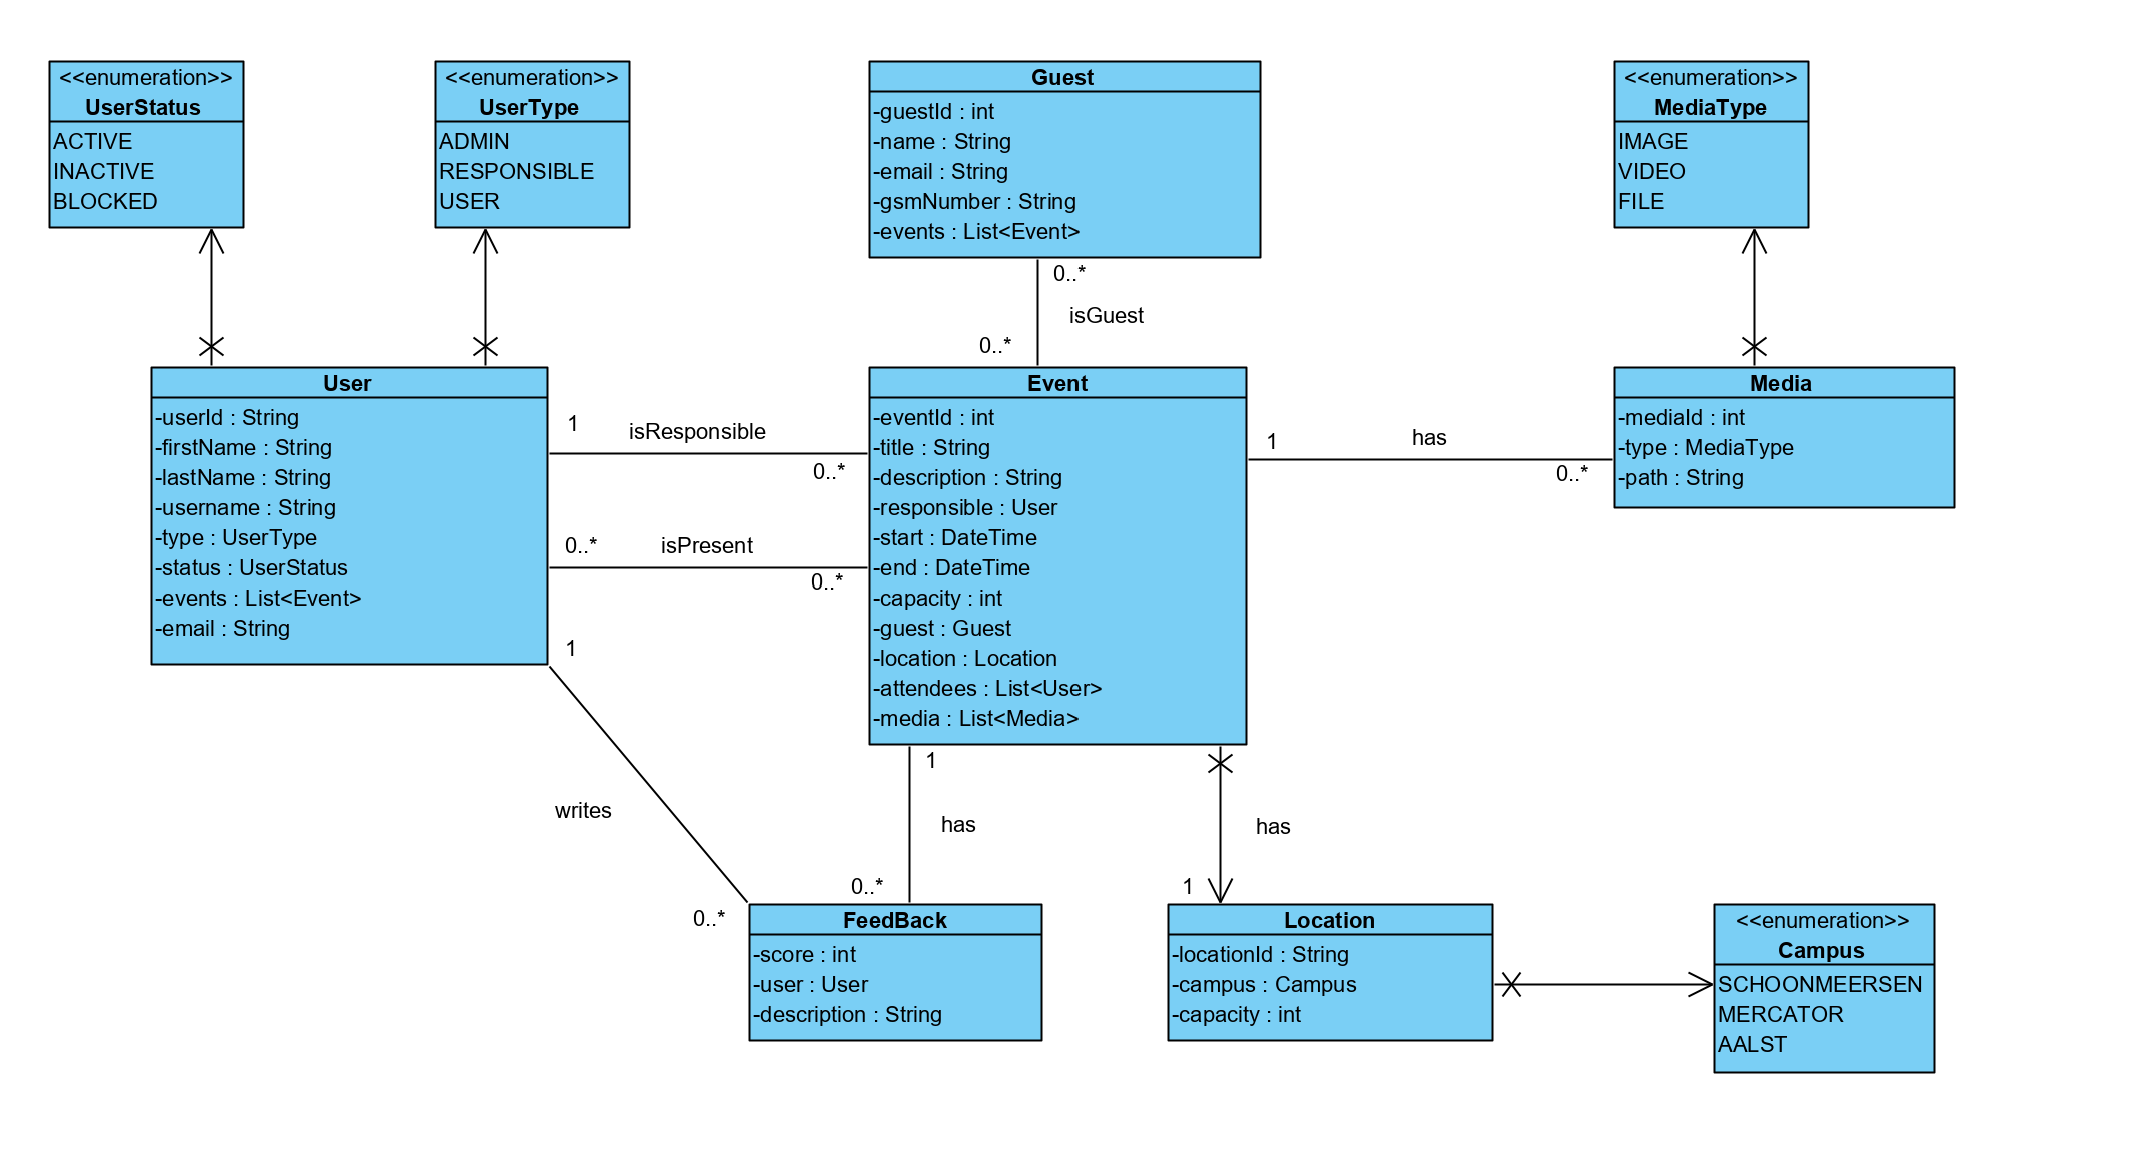
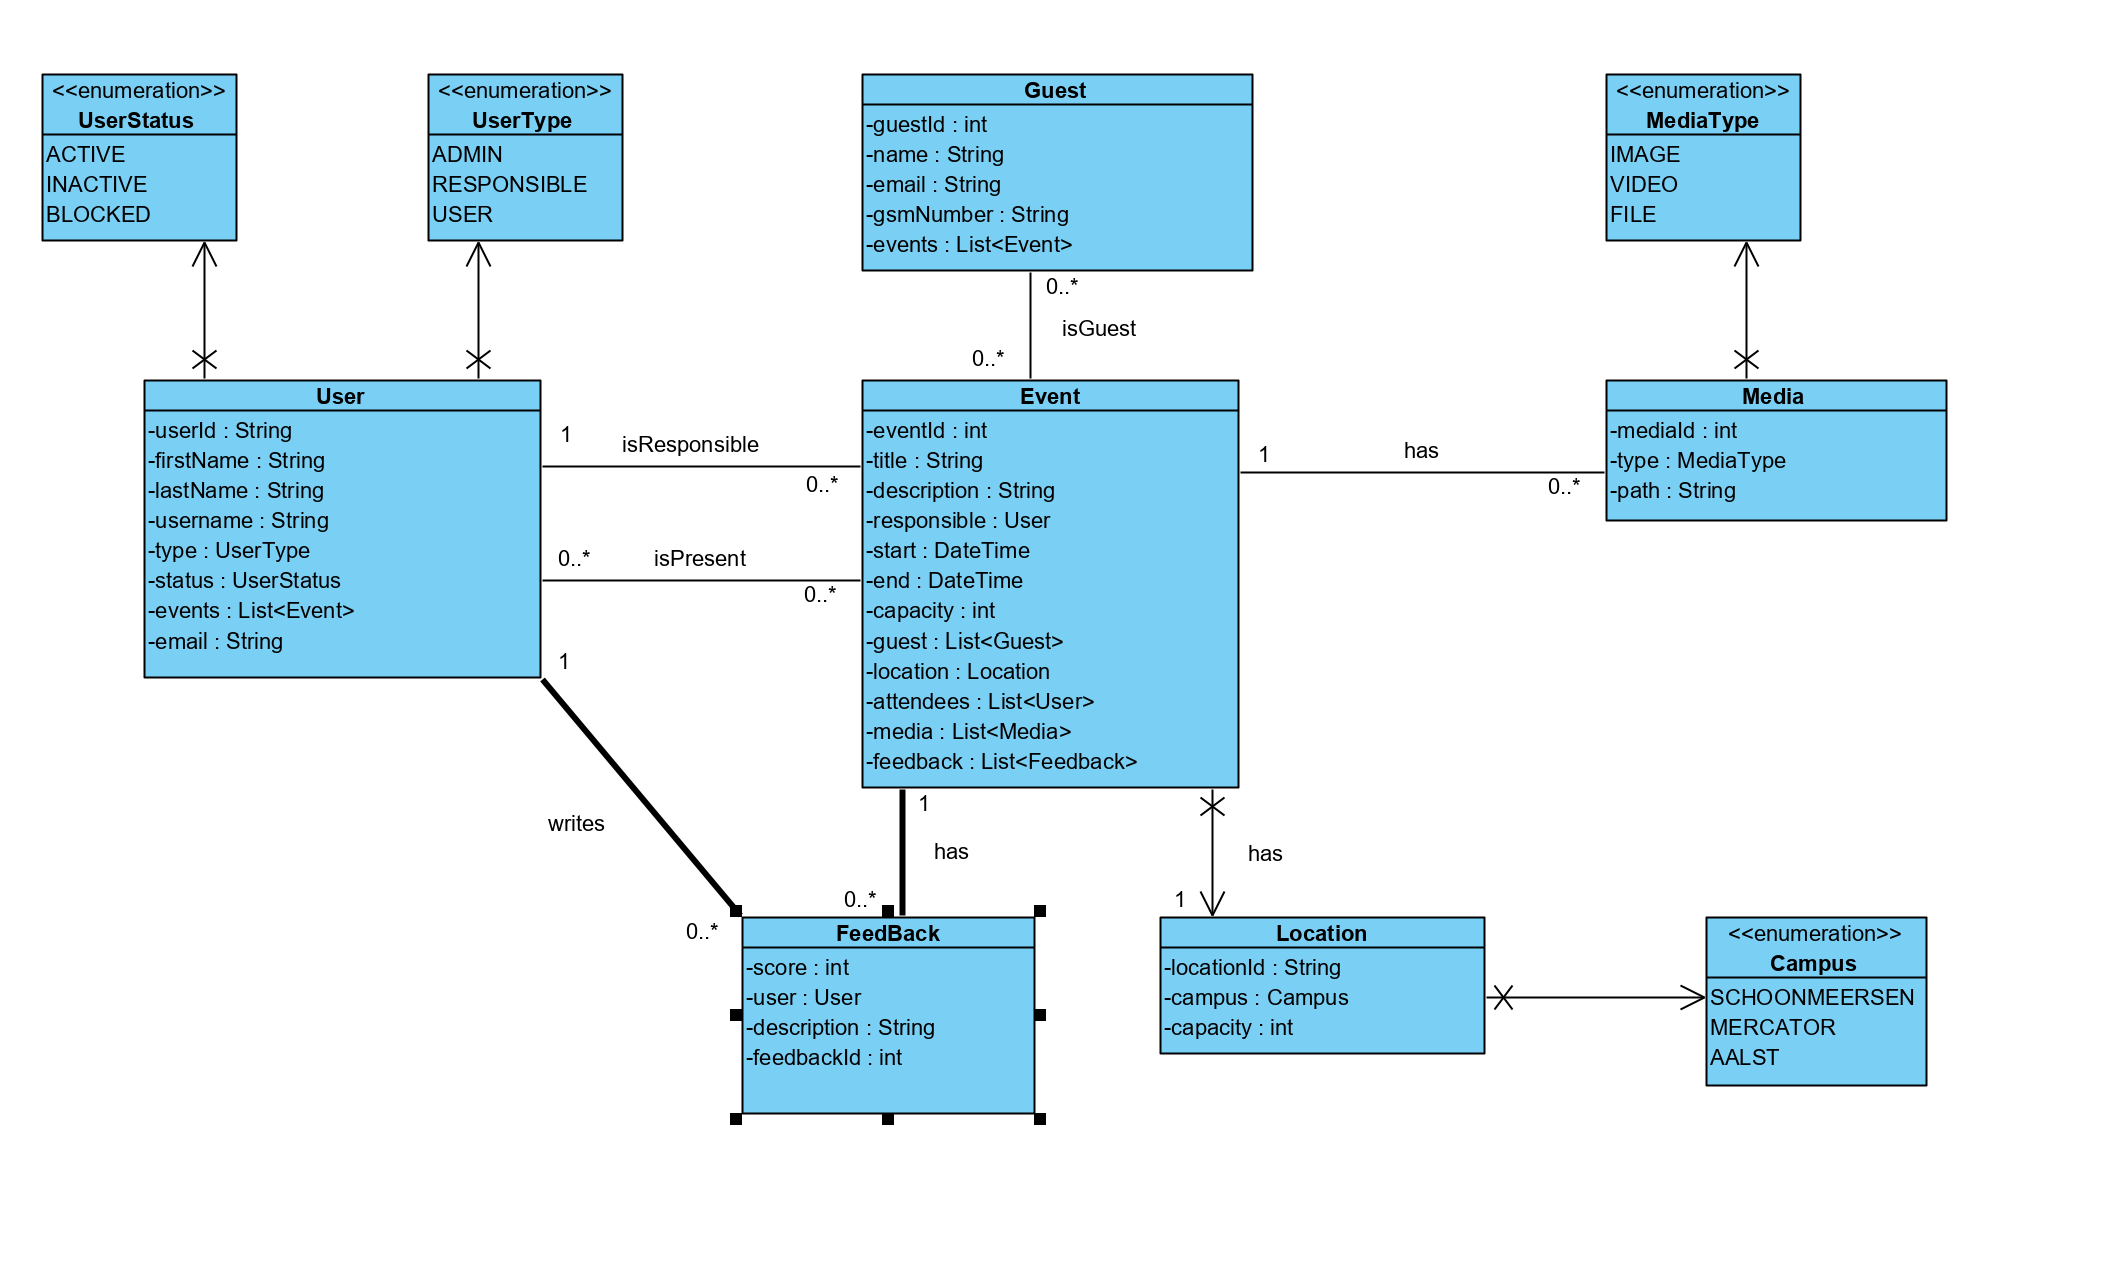
Guest class added + list initialize

diff --git a/ITLab29/Models/Domain/Guest.cs b/ITLab29/Models/Domain/Guest.cs
@@ -7,5 +7,33 @@ namespace ITLab29.Models.Domain
 {
     public class Guest
     {
+
+        public int GuestId { get; }
+        public string Name { get; }
+        public string Email { get; set; }
+        public string PhoneNumber { get; set; }
+        public ICollection<Event> Events { get; set; }
+
+
+        public Guest(string name, string email, string phoneNumber)
+        {
+            Name = name;
+            Email = email;
+            PhoneNumber = phoneNumber;
+            Events = new List<Event>();
+        }
+
+
+
+        public Event AddEvent(int id, string title, string description, User responsible, DateTime start, DateTime end, int capacity, Location location)
+        {
+            if (Events.Any(e => e.EventID == id))
+            {
+                throw new ArgumentException($"User {Name} has already an event with title: {title}");
+            }
+            Event newEvent = new Event(title, description, responsible, start, end, capacity, location);
+            Events.Add(newEvent);
+            return newEvent;
+        }
     }
 }

diff --git a/ITLab29/Models/Domain/User.cs b/ITLab29/Models/Domain/User.cs
@@ -28,6 +28,7 @@ namespace ITLab29.Models.Domain
             UserType = userType;
             UserStatus = userStatus;
             Email = email;
+            Events = new List<Event>();
         }
 
         public Event AddEvent(int id, string title, string description, User responsible, DateTime start, DateTime end, int capacity, Location location) {
